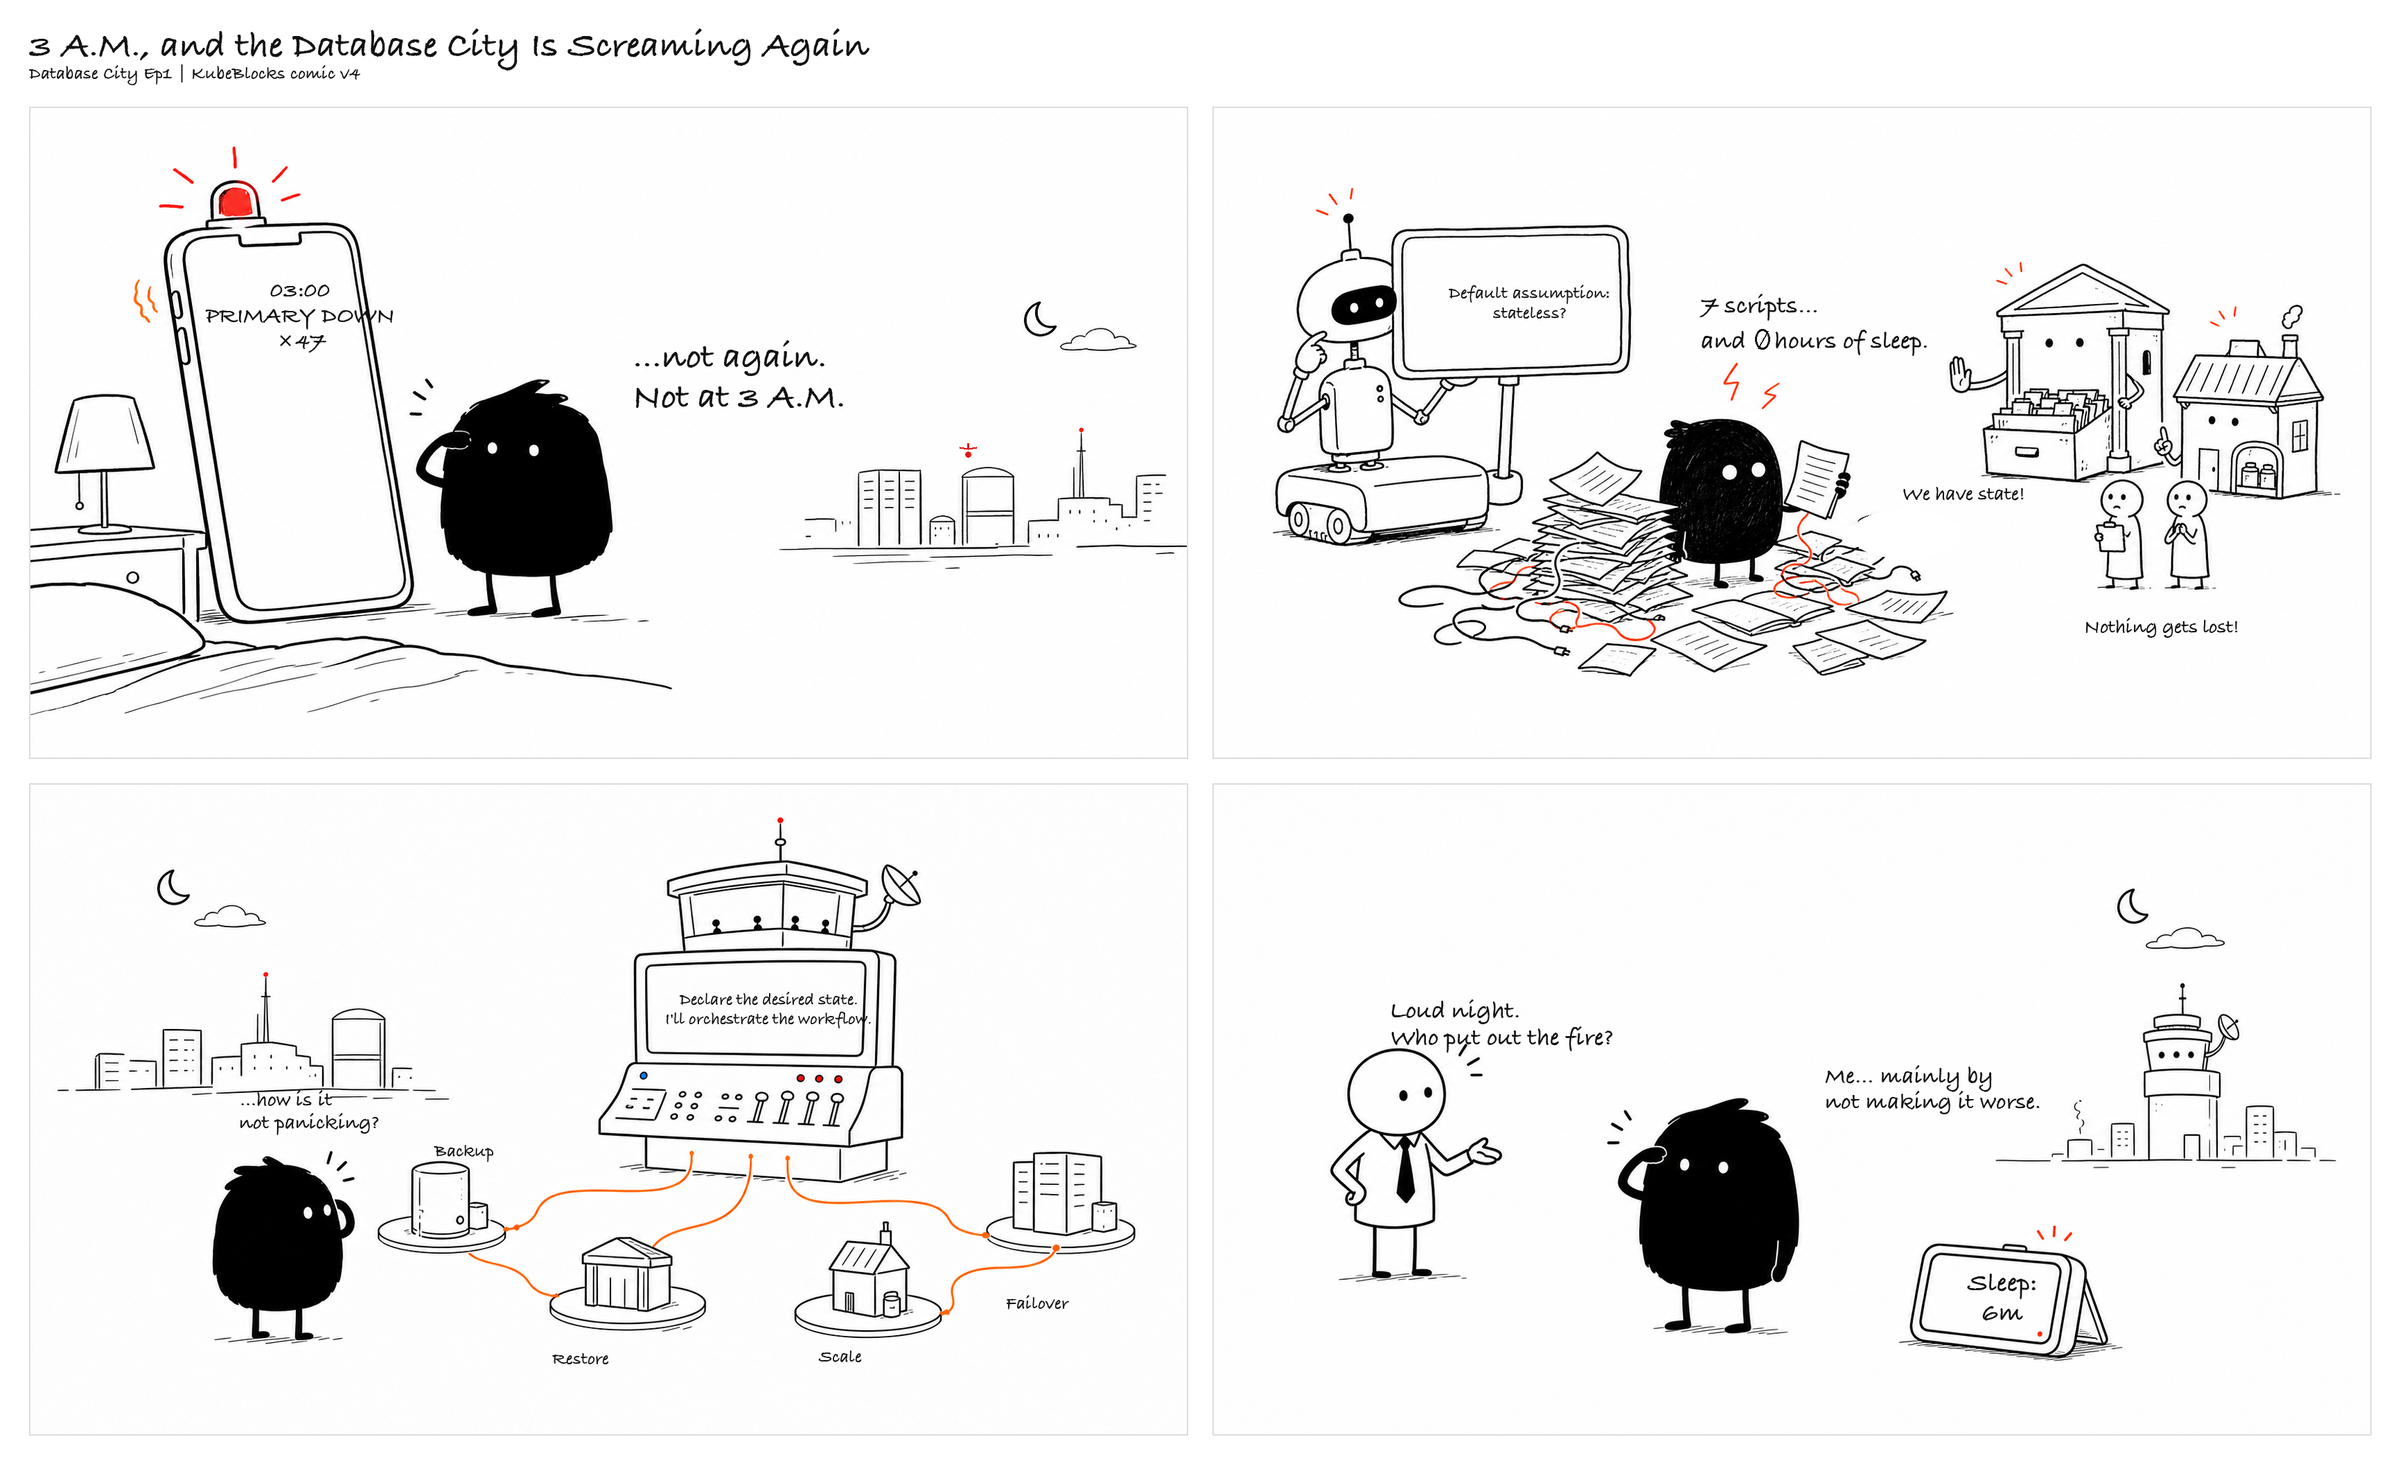
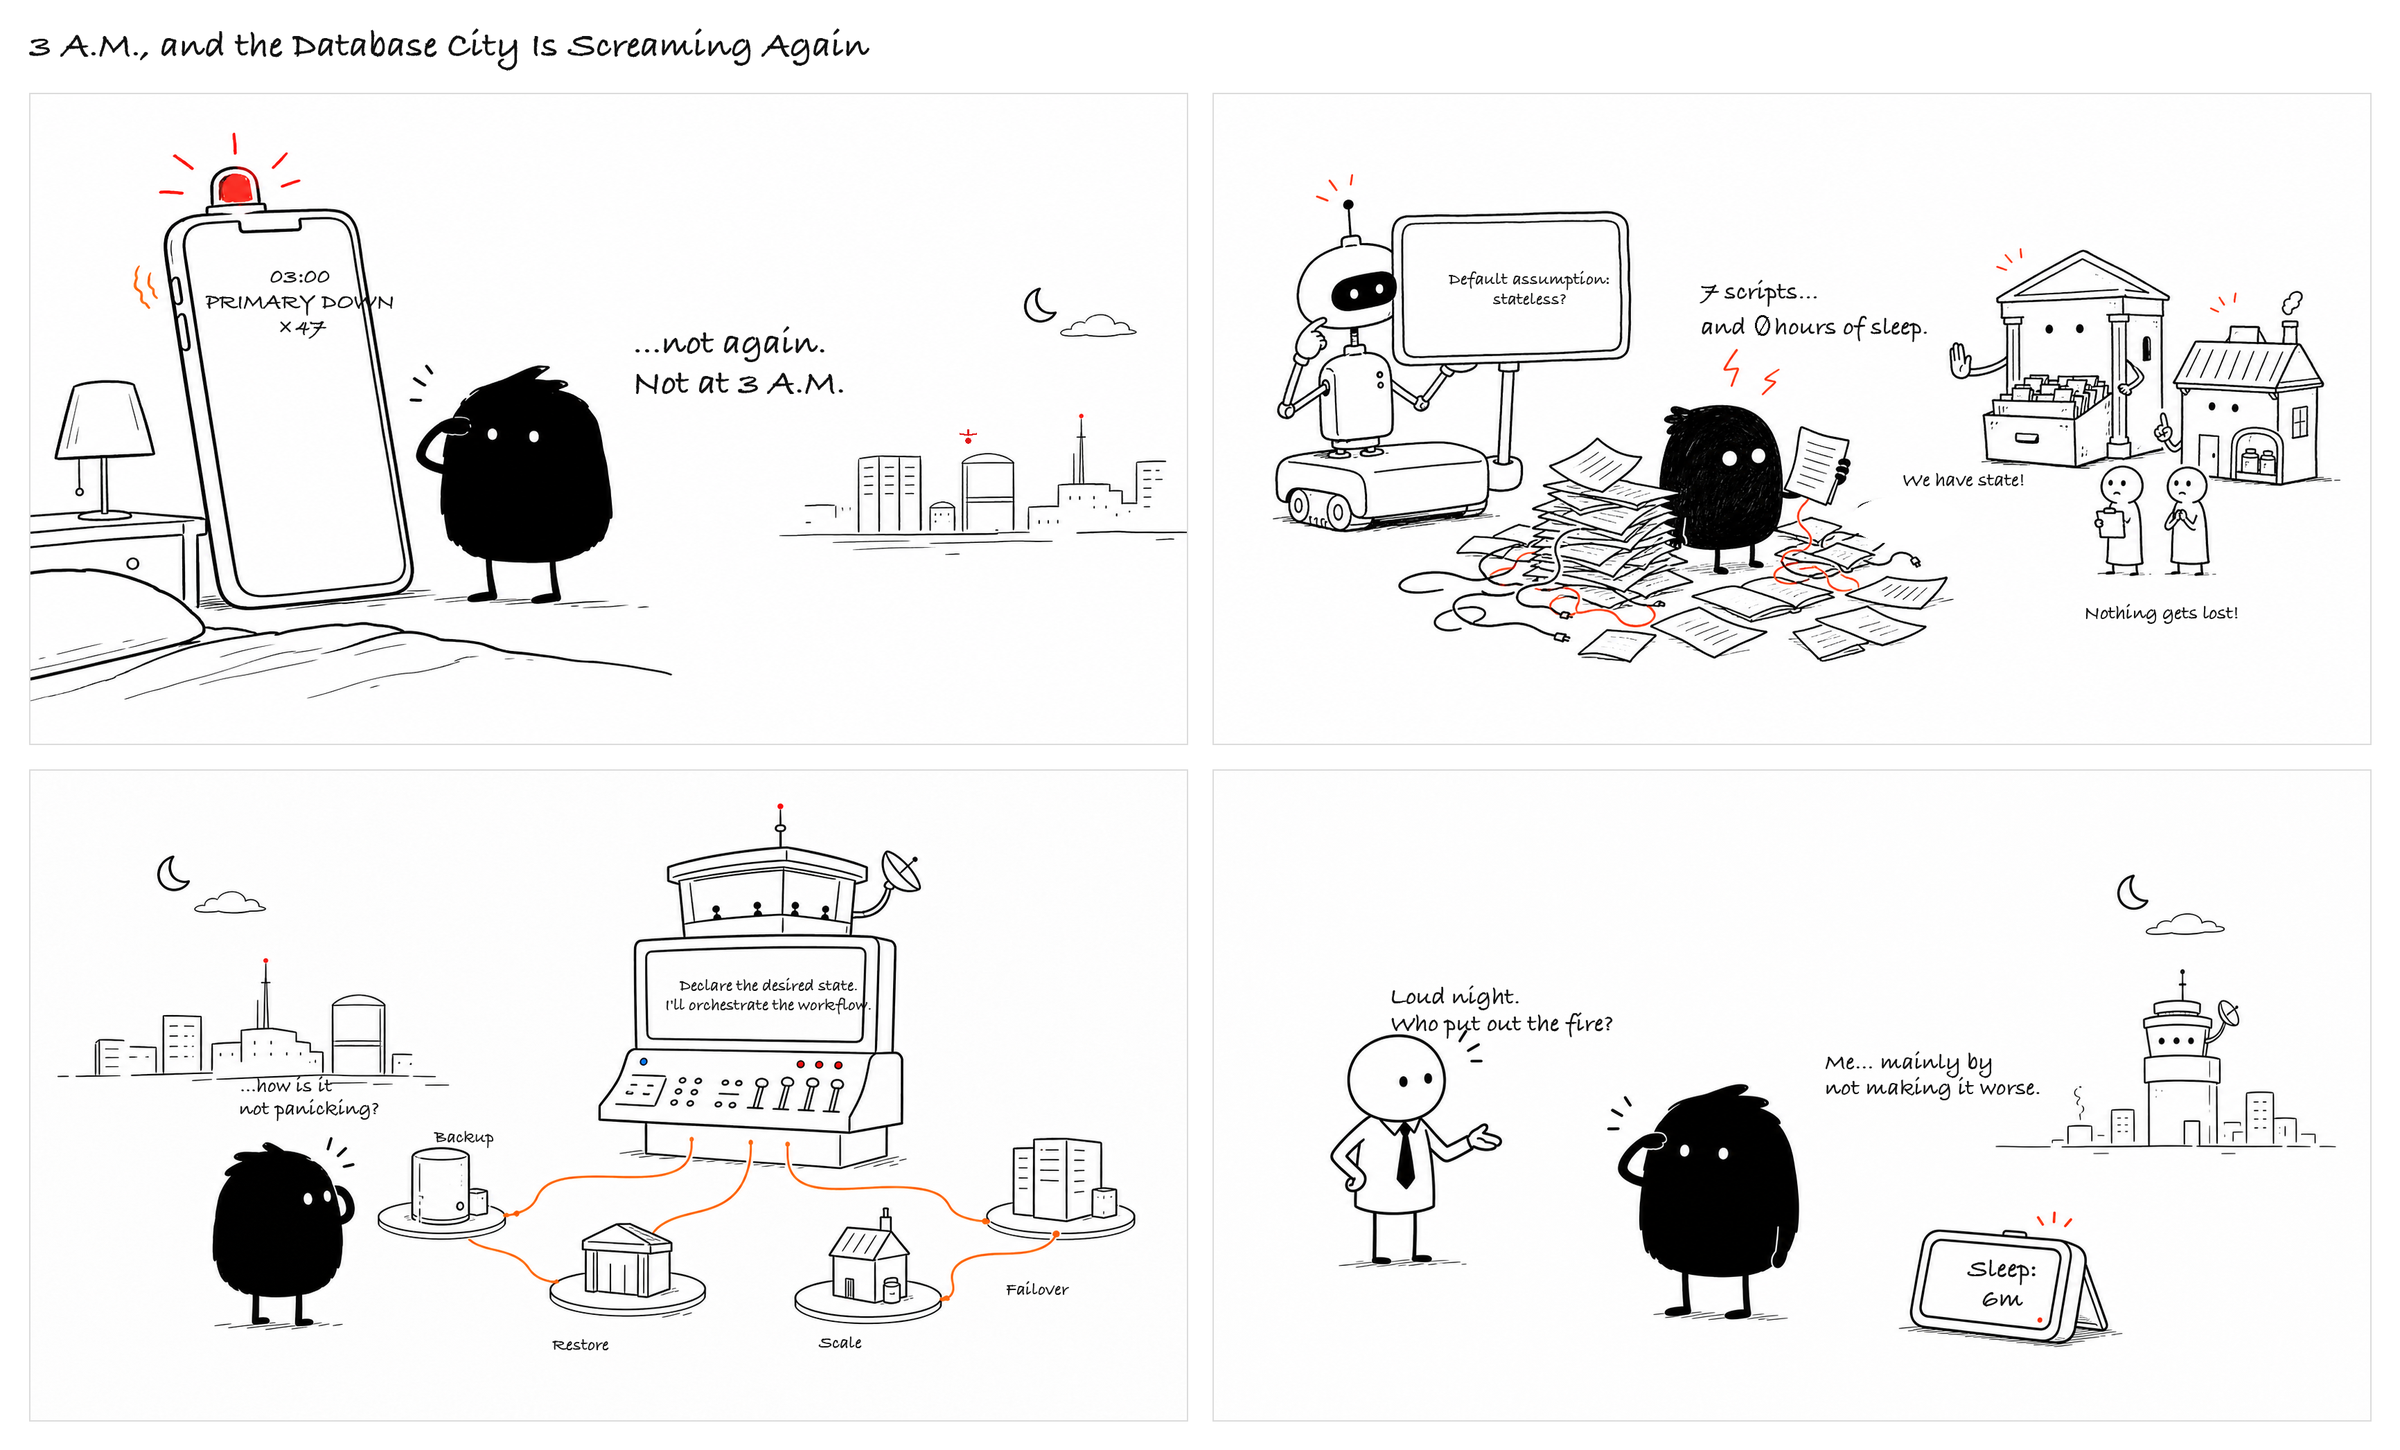
Remove internal label from Ep1 final comic

diff --git a/gallery/daily-4panel/2026-05-29-lingchen-sandian/build_comic_v4.py b/gallery/daily-4panel/2026-05-29-lingchen-sandian/build_comic_v4.py
@@ -37,7 +37,7 @@ def main() -> None:
 
     margin = 42
     gutter = 36
-    title_h = 112
+    title_h = 92
     canvas = Image.new(
         "RGB",
         (width * 2 + gutter + margin * 2, height * 2 + gutter + margin * 2 + title_h),
@@ -46,7 +46,6 @@ def main() -> None:
     draw = ImageDraw.Draw(canvas)
 
     draw.text((margin, 34), "3 A.M., and the Database City Is Screaming Again", font=load_font(54), fill=BLACK)
-    draw.text((margin, 90), "Database City Ep1 | KubeBlocks comic v4", font=load_font(26), fill=BLACK)
 
     positions = [
         (margin, margin + title_h),

diff --git a/gallery/daily-4panel/2026-05-29-lingchen-sandian/v4-files.md b/gallery/daily-4panel/2026-05-29-lingchen-sandian/v4-files.md
@@ -4,6 +4,7 @@
 
 - `comic-v4.png`: original high-resolution 2x2 final image
 - `comic-v4-review.png`: scaled review version for chat and quick whole-strip QA
+- Public-facing final images keep the episode title only. Internal brand/version/meta text such as `KubeBlocks comic v4` must not appear in the artwork.
 
 ## Approved Panels
 
@@ -31,6 +32,7 @@
 
 - English comic text only.
 - Readable text is black by default.
+- Public-facing artwork keeps the episode title but excludes internal version numbers, product-name meta labels, and project tags.
 - No ordinary speech bubbles, dialogue balloons, caption cards, or normal text boxes.
 - Object-native text surfaces only: phone screen, robot sign, tower screen, sleep counter.
 - Color is limited to non-text alert/workflow/status accents.
